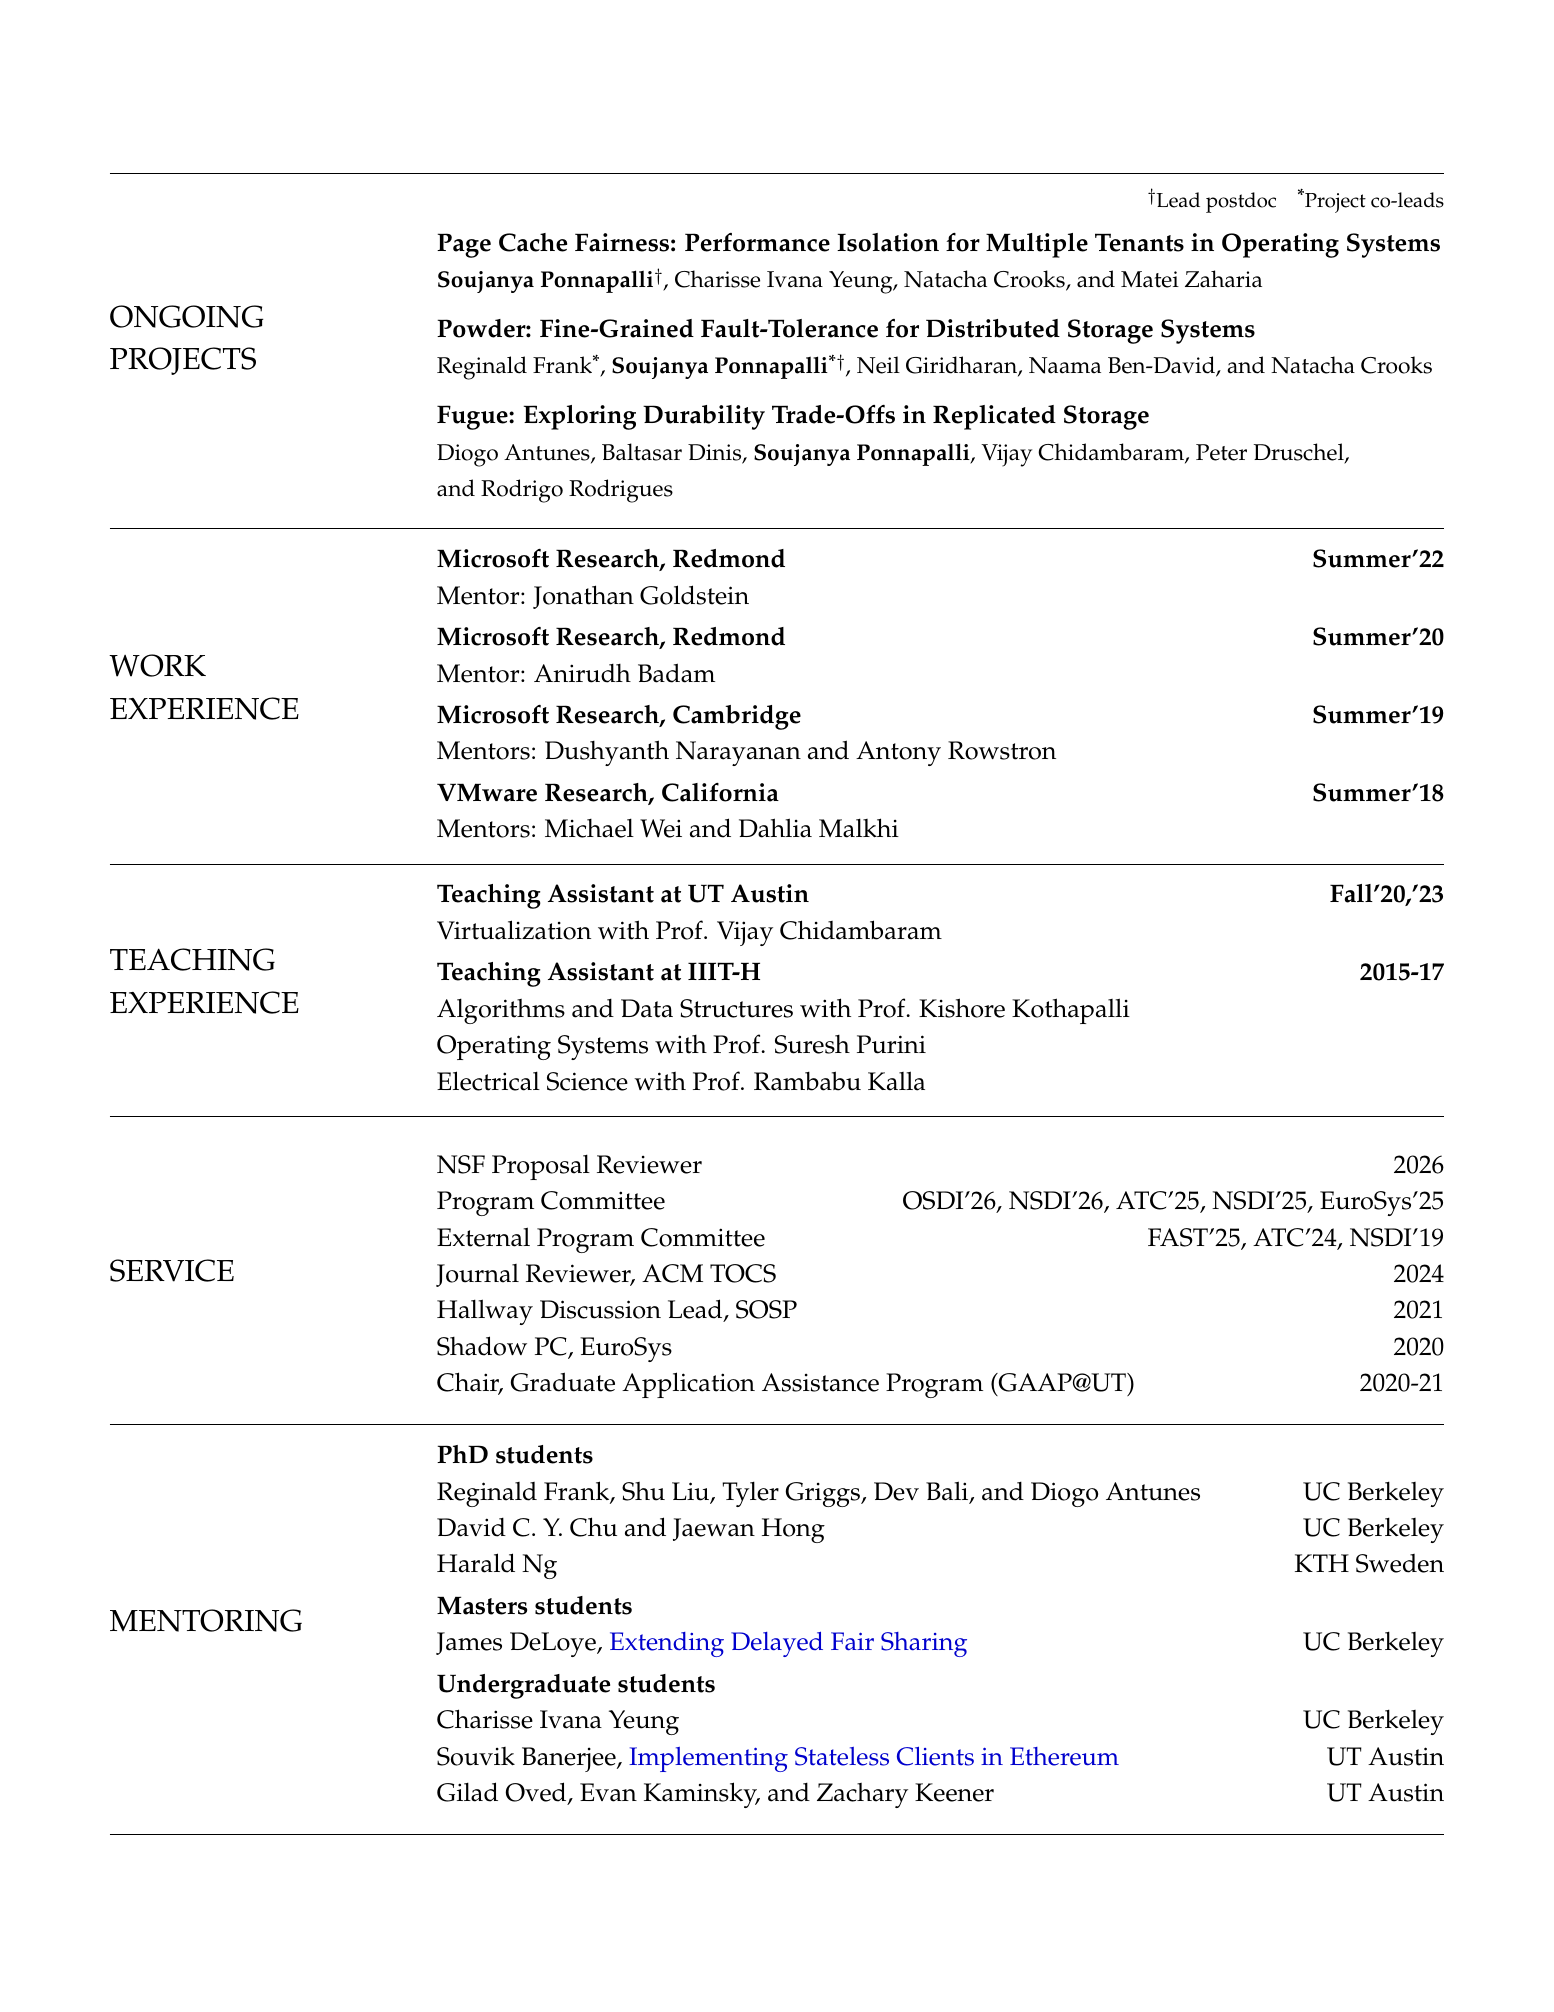
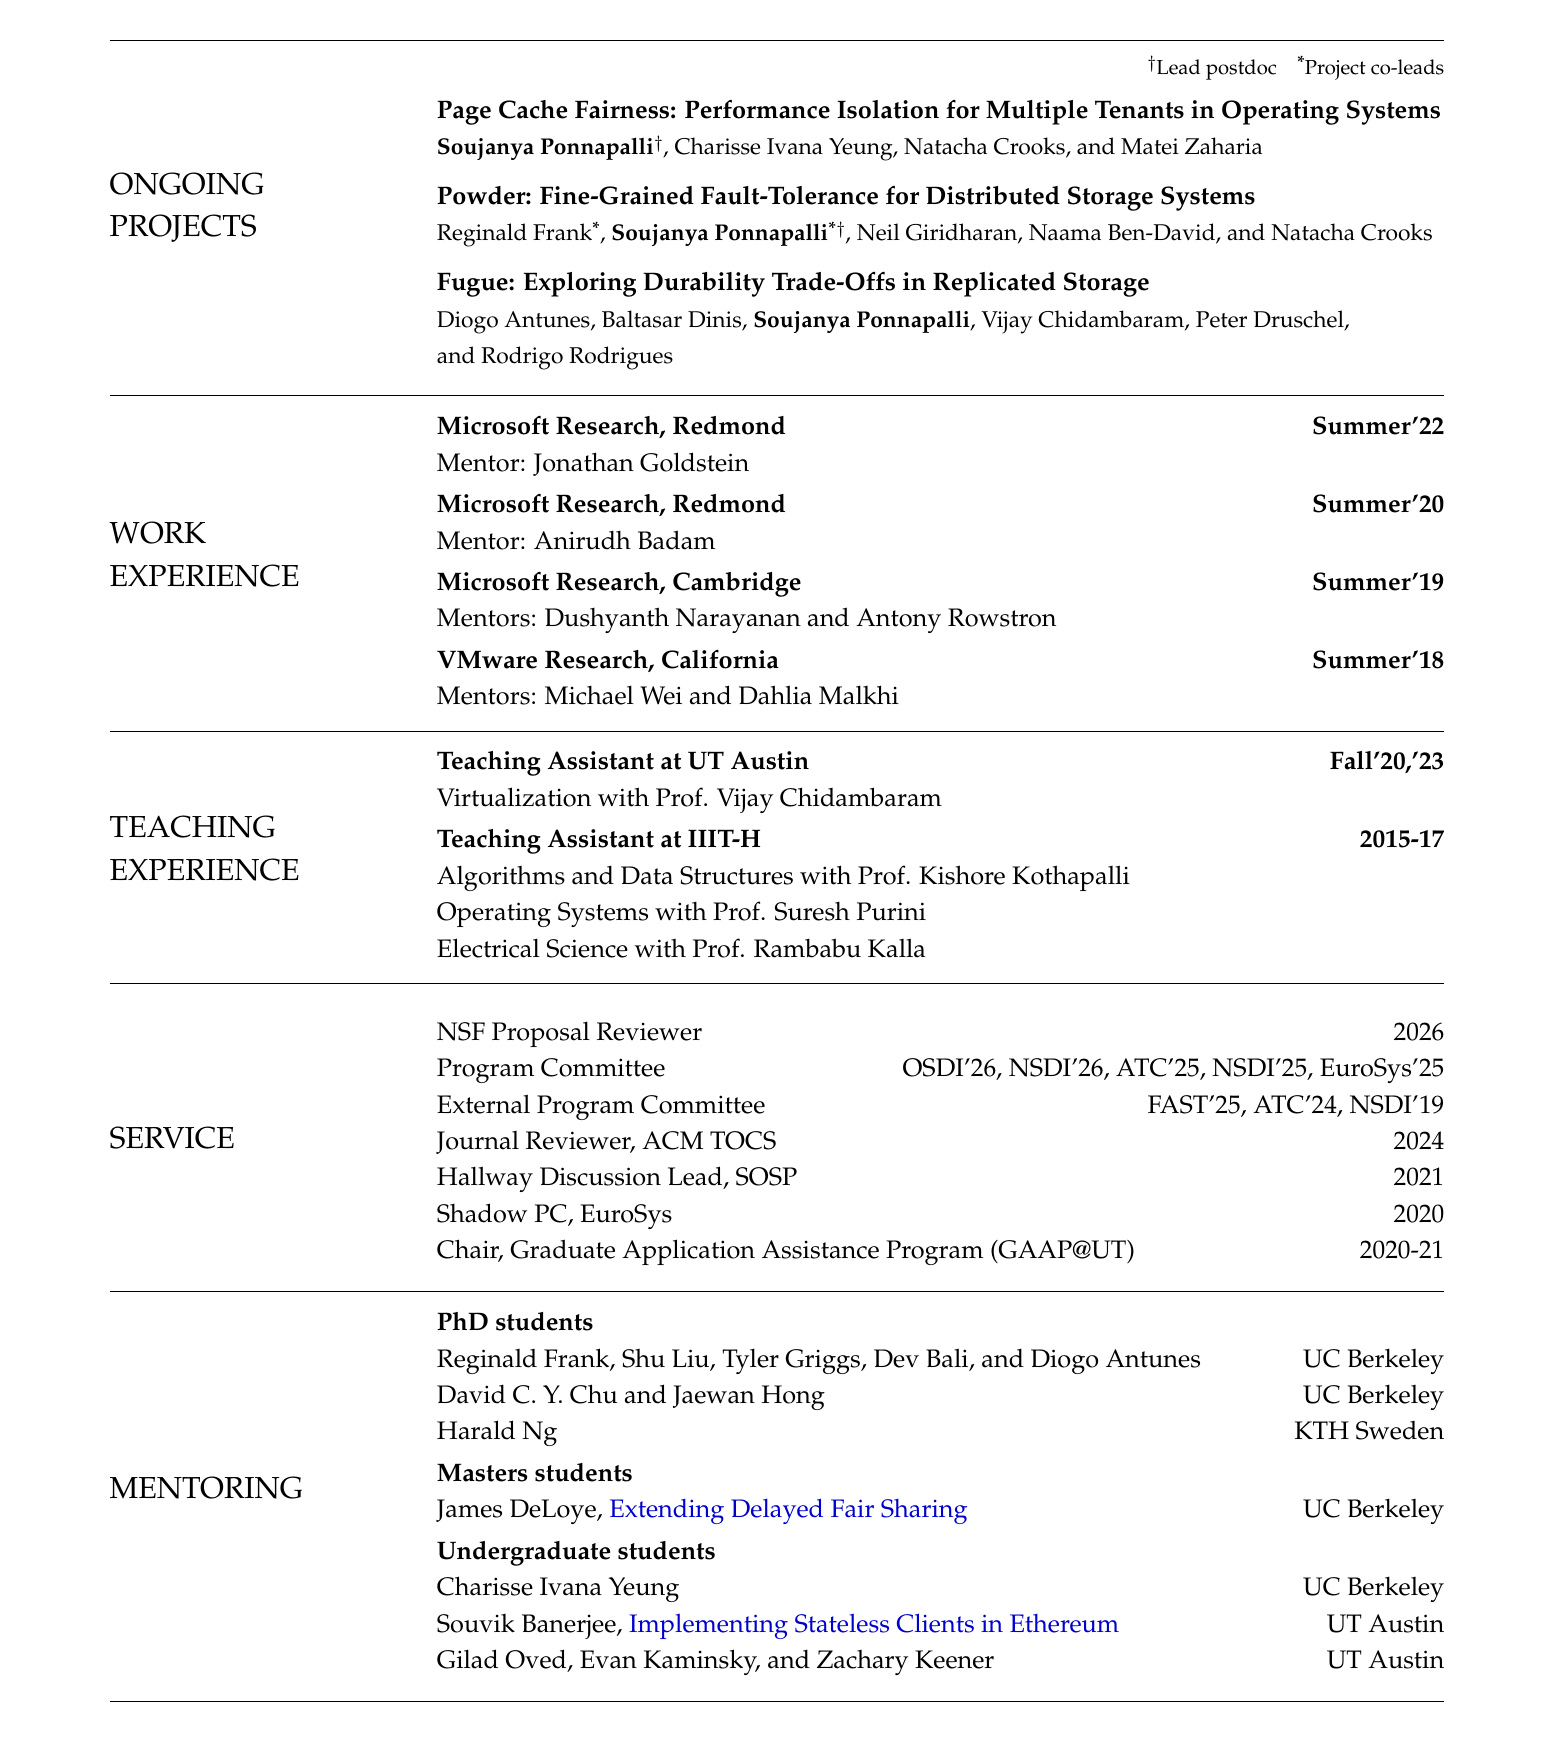
:lipstick: Trimming page margins so the cv images read continuously

diff --git a/images/README-cv-images.md b/images/README-cv-images.md
@@ -1,0 +1,38 @@
+# CV page images (`cv1.png` … `cv4.png`)
+
+These are the pages of `soujanya-cv.pdf`, shown on `/cv/`. Regenerate them
+whenever the CV changes, in two steps.
+
+## 1. Render each page
+
+```bash
+pdftoppm -png -scale-to-x 1554 -scale-to-y -1 soujanya-cv.pdf /tmp/cv
+```
+
+1554px wide keeps the images at the size the page has always used. Add or
+remove `cvN.png` files if the CV gains or loses a page, and update the
+`<img>` list in `_pages/cv.md` to match.
+
+## 2. Trim the vertical page margins
+
+Each PDF page carries roughly 150-175px of white at the top and bottom. Left
+as-is, two of those margins stack between consecutive images and the page
+reads as a series of separated sheets rather than one continuous document.
+Trim them to a uniform 40px, keeping the full width so the text columns stay
+aligned across pages:
+
+```python
+from PIL import Image
+PAD = 40
+for i in (1, 2, 3, 4):
+    im = Image.open(f'/tmp/cv-{i}.png')
+    g = im.convert('L'); w, h = im.size; px = g.load()
+    ink = lambda y: any(px[x, y] < 245 for x in range(0, w, 3))
+    top = 0
+    while top < h and not ink(top): top += 1
+    bot = h - 1
+    while bot > top and not ink(bot): bot -= 1
+    im.crop((0, max(0, top - PAD), w, min(h, bot + 1 + PAD))).save(f'images/cv{i}.png')
+```
+
+Only the height changes; every image stays 1554px wide.
